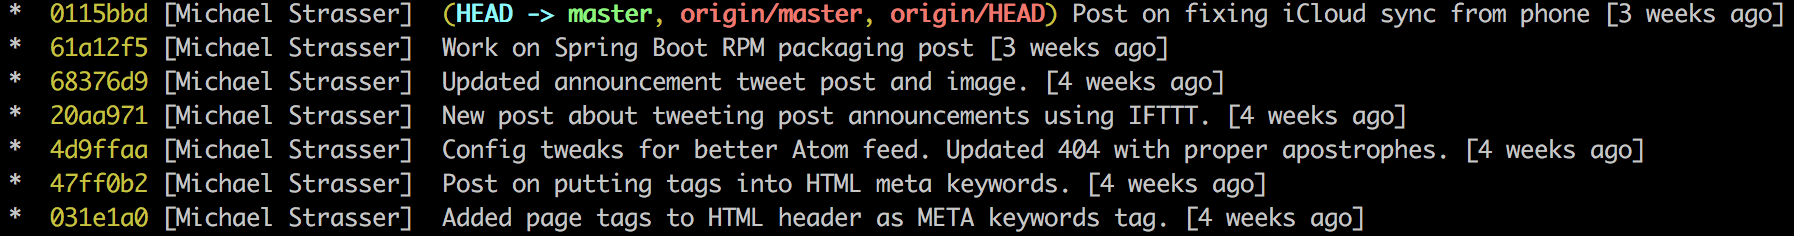
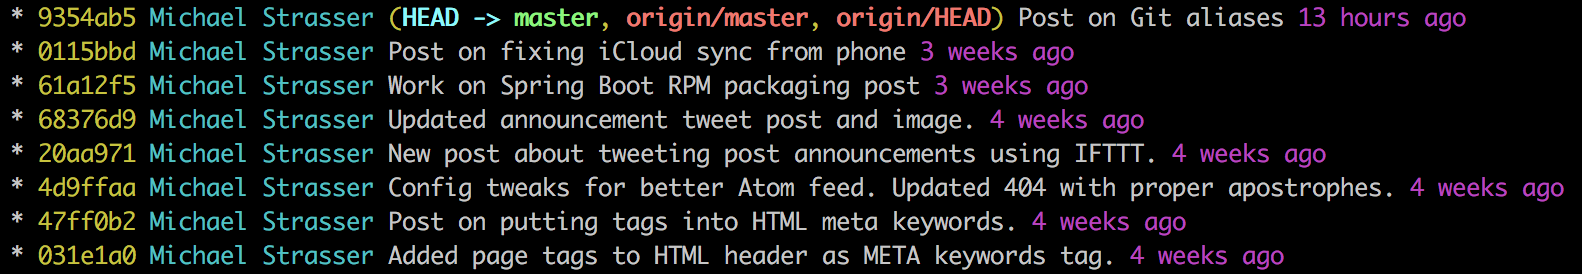
Published Git aliases post

diff --git a/_posts/2017-08-17-some-handy-git-aliases.md b/_posts/2017-08-17-some-handy-git-aliases.md
@@ -14,17 +14,20 @@ needed to recreate them so I decided the document them here.
 
 `git lg` is a short, graphical log display, defined like this:
 
-    git config --global alias.lg 'log --oneline --decorate --all --graph'
+    git config --global alias.lg 'log --oneline --decorate --graph'
 
 Example output is:
 
-![Git log output with --decorate --all]({{ site.baseurl }}/public/images/git-log-decorate-all.png)
+![Git log output with --decorate]({{ site.baseurl }}/public/images/git-log-decorate.png)
 
-I remade it with extra information, that include committer name and date.
+Then I decided to augment it with useful extra information, including colouring.
 
-    git config --global alias.lg 'log --oneline --graph --format="%C(auto)%h [%cn] %d %s [%cr]"'
+    git config --global alias.lg 'log --graph --format="%C(auto)%h %C(cyan)%cn%C(auto)%d %s %C(magenta)%cr"'
 
 ![Git log output with --format]({{ site.baseurl }}/public/images/git-log-format.png)
+
+The `%C(auto)` specification does not colour committer name or date, so I coloured those
+explicitly.
 
 Documentation is here:
 
